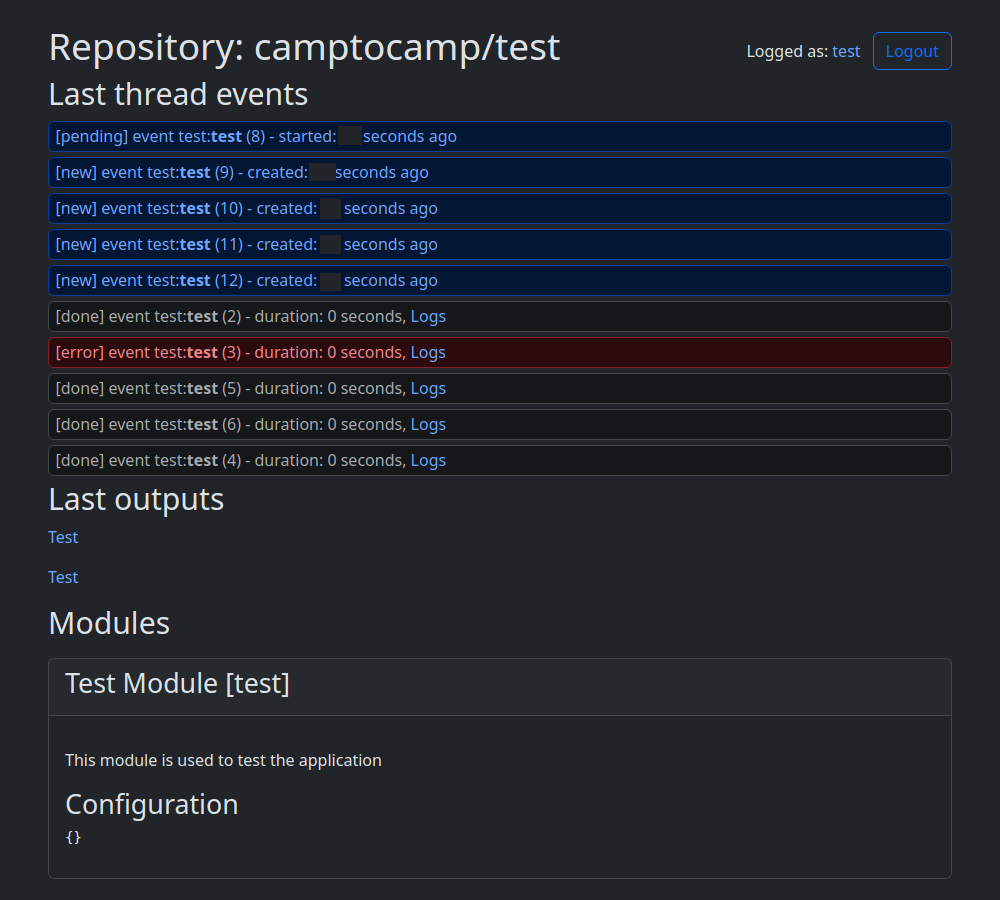
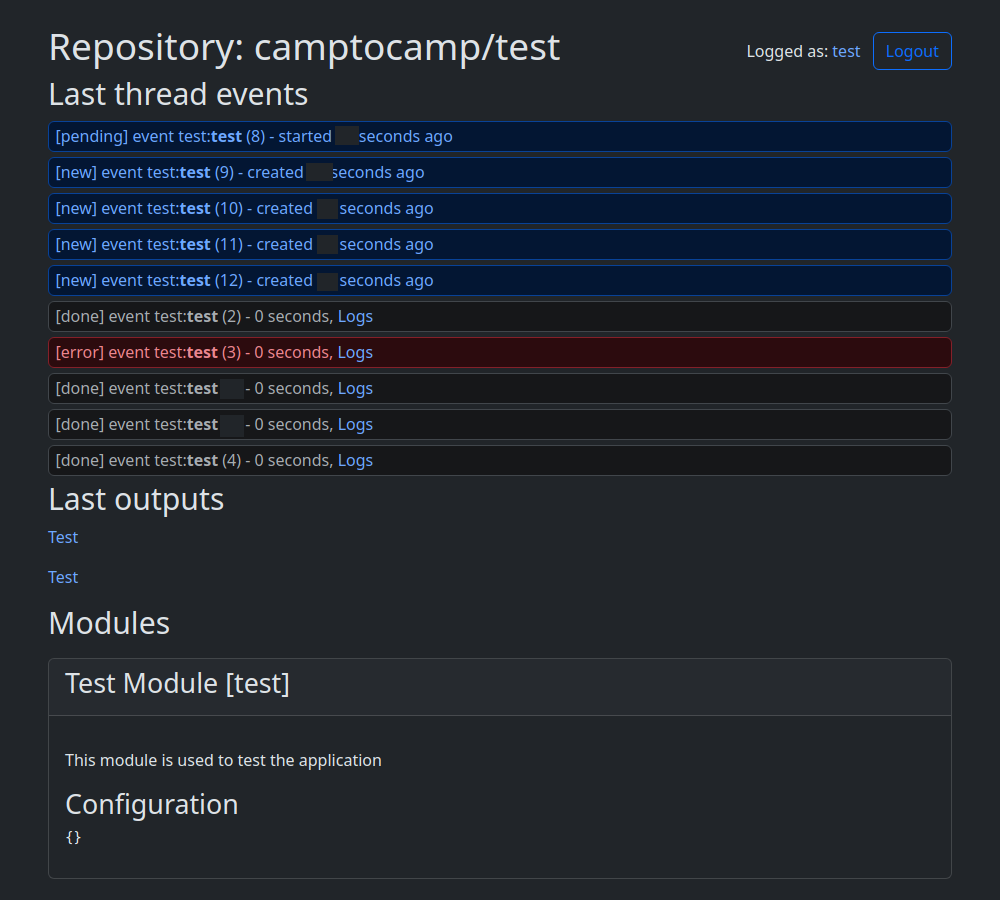
Less text

Changed region(s): [[0.217, 0.1867, 0.434, 0.4356], [0.217, 0.4667, 0.434, 0.5289], [0.341, 0.1244, 0.465, 0.1556]]

diff --git a/github_app_geo_project/templates/project.html b/github_app_geo_project/templates/project.html
@@ -163,18 +163,18 @@
           >
             %if job[7]:
             <!---->
-            duration:&nbsp;${job[7] - job[5]|pprint_duration}</a
+            ${job[7] - job[5]|pprint_duration}</a
           >${',' if job[8] else ''}
           <!---->
           %else:
           <!---->
           %if job[5]:
           <!---->
-          started:&nbsp;${job[5]|pprint_date}
+          started&nbsp;${job[5]|pprint_date}
           <!---->
           %else:
           <!---->
-          created:&nbsp;${job[4]|pprint_date}
+          created&nbsp;${job[4]|pprint_date}
           <!---->
           %endif
           <!-- for Prettier -->
